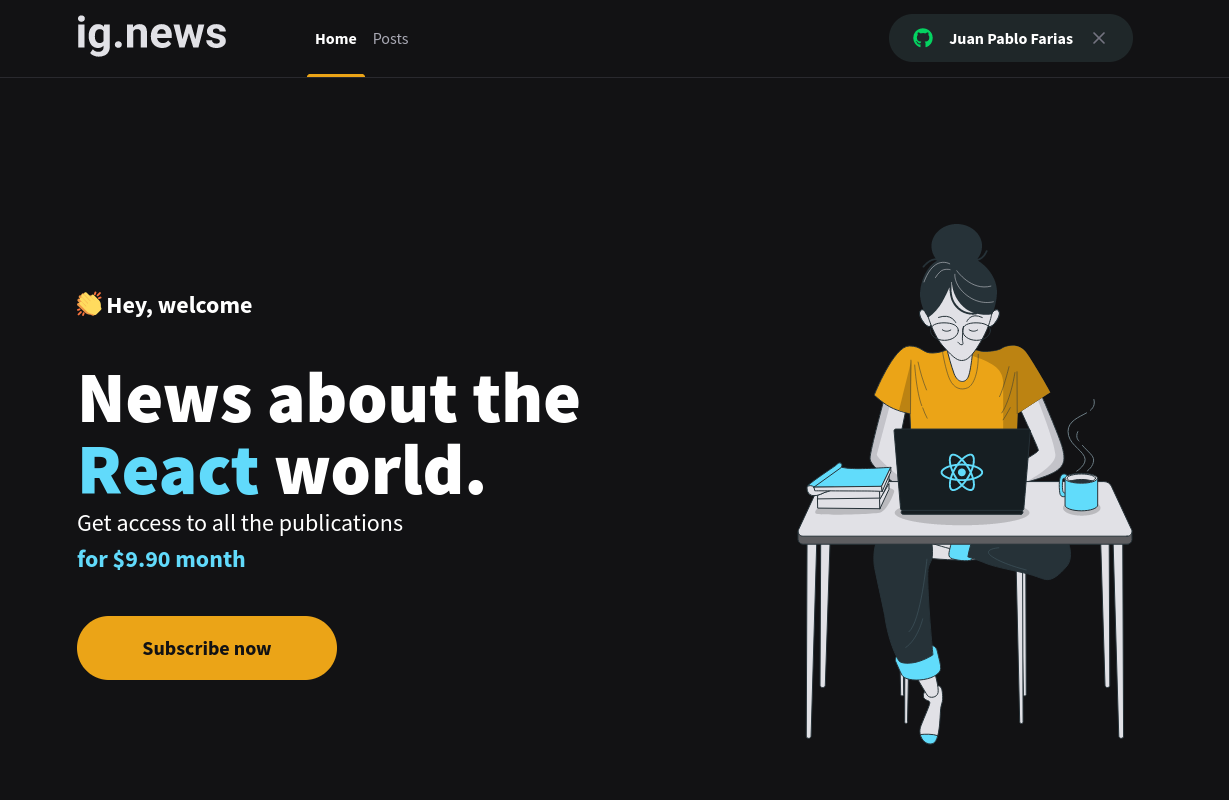
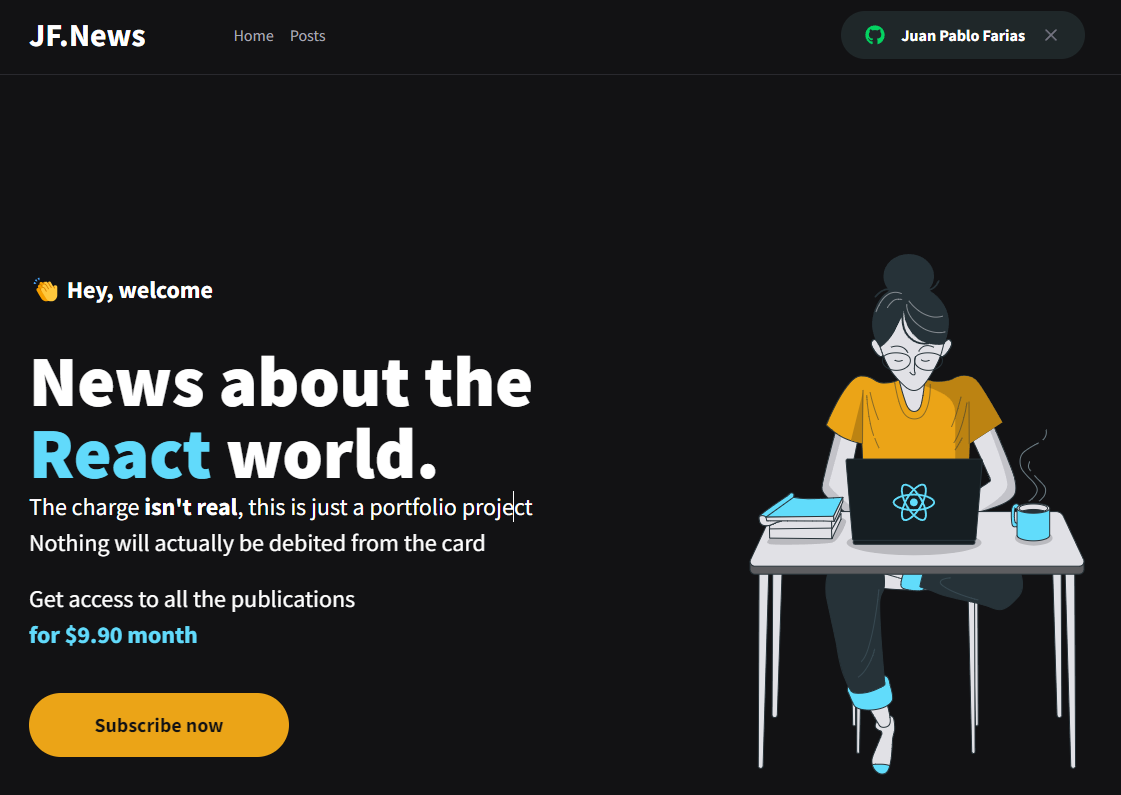
update info

diff --git a/Readme.md b/Readme.md
@@ -112,4 +112,9 @@ Documentação Baseado na do https://github.com/nelsonsantosaraujo/ignews
 ## Prints
 ![Screenshots](screenshots/home.png)
 ![Screenshots](screenshots/posts.png)
+
+### Caso não tenha pago:
 ![Screenshots](screenshots/singlePost.png)
+
+### Caso tenha pago:
+![Screenshots](screenshots/singlePayPost.png)
